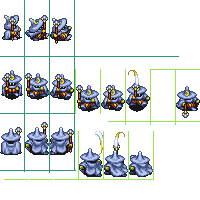
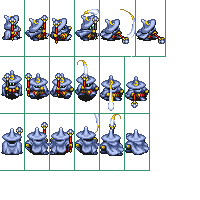
simplified player draw code

Changed region(s): [[0.03, 0.0, 1.0, 0.9], [0.0, 0.63, 0.12, 0.78], [0.6, 0.03, 0.63, 0.06]]

diff --git a/Player.cs b/Player.cs
@@ -229,25 +229,19 @@ public class Player {
    }
 
     public void Draw() {
-        Rectangle src = new Rectangle();
-        Rectangle dst = new Rectangle();
+        Rectangle src = new Rectangle(25*currentSprite, 0, 24, 56);
+        Rectangle dst = new Rectangle(rect.X, rect.Y, 24*2, 56*2);
+        dst.X = rect.X - (32)/4;
+        dst.Y = rect.Y - ((56*2-32))/2;
 
         if (isAttacking) {
-//          src = new Rectangle(25*currentSprite, 0, 24, 35);
-            dst = new Rectangle(rect.X, rect.Y, 24*2, 35*2);
             if (isFacingUp) {
-                src = new Rectangle(25*currentSprite, 88, 24, 48);
-                dst.Width = 24 * 2;
-                dst.Height = 48 * 2;
+                src.Y = 114;
             }
             if (isFacingDown) {
-                src = new Rectangle(25*currentSprite, 36, 24, 51);
-                dst.Width = 24 * 2;
-                dst.Height = 48 * 2;
+                src.Y = 57;
             }
             if (isFacingRight) {
-                src = new Rectangle(25*currentSprite, 0, 24, 35);
-                dst = new Rectangle(rect.X, rect.Y, 24*2, 35*2);
                 if (currentSprite == 4) {
                     src.Width = 35;
                     dst.Width = 35*2;
@@ -258,10 +252,7 @@ public class Player {
                     dst.Width = 29*2;
                 }
             }
-
             if (isFacingLeft) {
-                src = new Rectangle(25*currentSprite, 0, 24, 35);
-                dst = new Rectangle(rect.X, rect.Y, 24*2, 35*2);
                 if (currentSprite == 4) {
                     src.Width = 35;
                     dst.Width = 35*2;
@@ -275,20 +266,13 @@ public class Player {
             } 
         } else {
             if (isFacingUp) {
-                src = new Rectangle(25 * currentSprite, 114, 24, 56);
-                dst = new Rectangle(rect.X, rect.Y, 24*2, 56*2);
+                src.Y = 114;
             }
             if (isFacingDown) {
-                src = new Rectangle(25 * currentSprite, 57, 24, 56);
-                dst = new Rectangle(rect.X, rect.Y, 24*2, 56*2);
+                src.Y = 57;
             }
             if (isFacingLeft) {
-                src = new Rectangle(25 * currentSprite, 0, -24, 56);
-                dst = new Rectangle(rect.X, rect.Y, 24*2, 56*2);
-            }
-            if (isFacingRight) {
-                src = new Rectangle(25 * currentSprite, 0, 24, 56);
-                dst = new Rectangle(rect.X, rect.Y, 24*2, 56*2);
+                src.Width *= -1;
             }
         }
         Raylib.DrawTexturePro(Textures.player, 
@@ -297,7 +281,6 @@ public class Player {
                 Vector2.Zero,
                 0,
                 Color.White);
-
 
 //      Raylib.DrawRectanglePro(rect, Vector2.Zero, 0, invencibility ? Color.LightGray : Color.Red);
         Raylib.DrawRectangleLinesEx(hitbox, 1f, Color.Red);
@@ -328,6 +311,7 @@ public class Player {
                                         1f,
                                         Color.Black);
         }
+        Raylib.DrawRectangleLinesEx(dst, 1f, Color.Red);
 
             // cambiar el arraylist por un array fijo para performance?
 

diff --git a/obj/Debug/net8.0/rcs.AssemblyInfo.cs b/obj/Debug/net8.0/rcs.AssemblyInfo.cs
@@ -13,7 +13,7 @@ using System.Reflection;
 [assembly: System.Reflection.AssemblyCompanyAttribute("rcs")]
 [assembly: System.Reflection.AssemblyConfigurationAttribute("Debug")]
 [assembly: System.Reflection.AssemblyFileVersionAttribute("1.0.0.0")]
-[assembly: System.Reflection.AssemblyInformationalVersionAttribute("1.0.0+20742a5cb056b848dc1241e04189b235a818c4b2")]
+[assembly: System.Reflection.AssemblyInformationalVersionAttribute("1.0.0+b78436ded699c8b4e903084761caee7176461c88")]
 [assembly: System.Reflection.AssemblyProductAttribute("rcs")]
 [assembly: System.Reflection.AssemblyTitleAttribute("rcs")]
 [assembly: System.Reflection.AssemblyVersionAttribute("1.0.0.0")]
